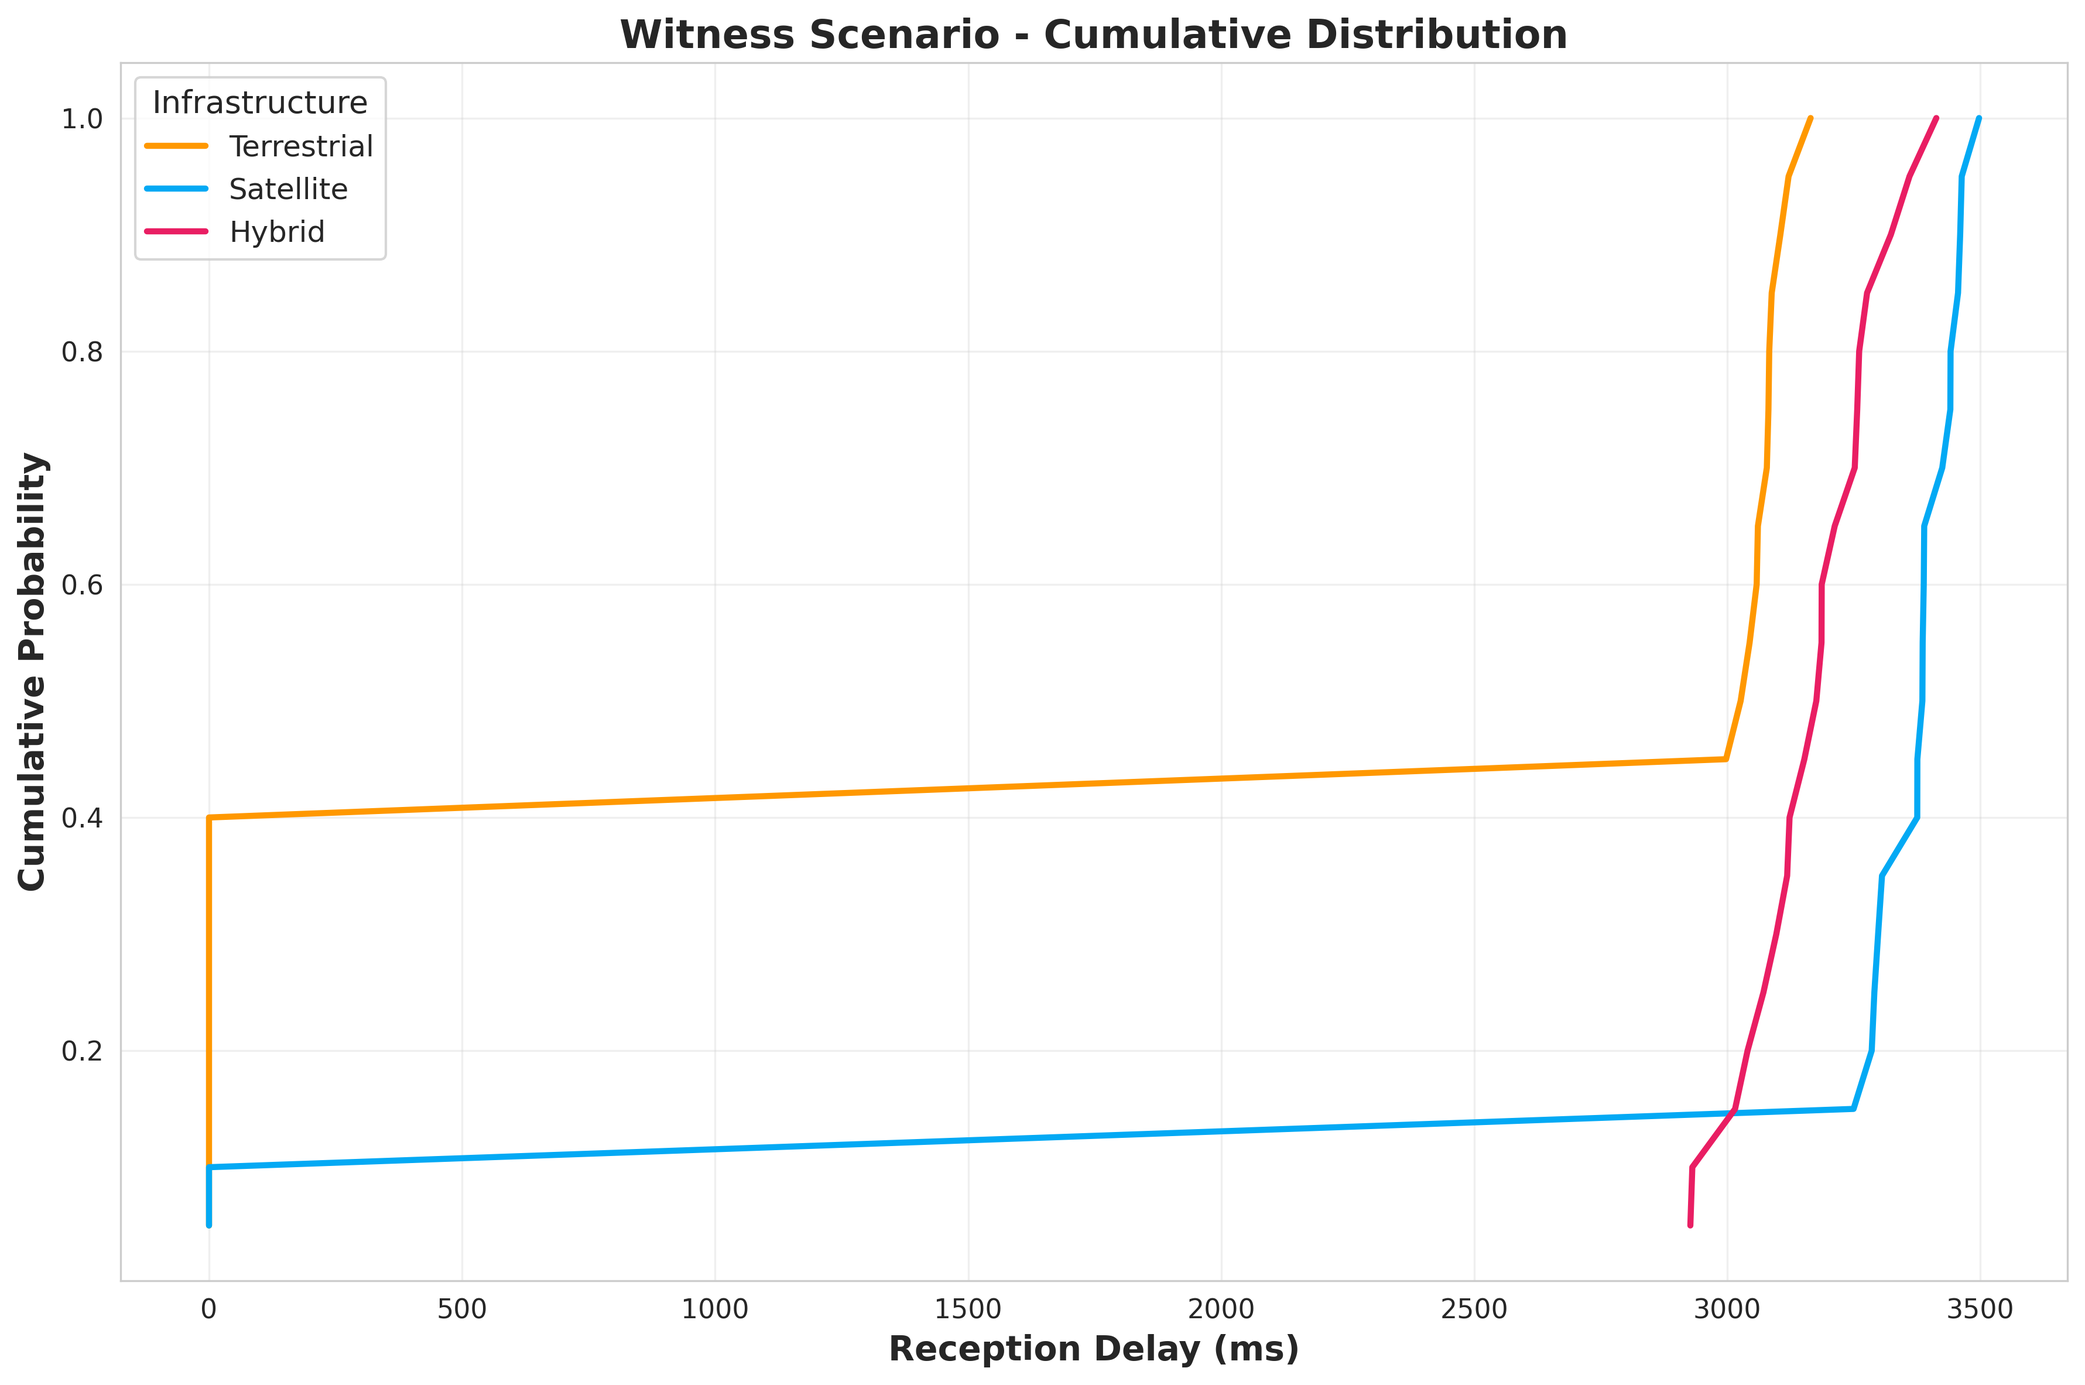
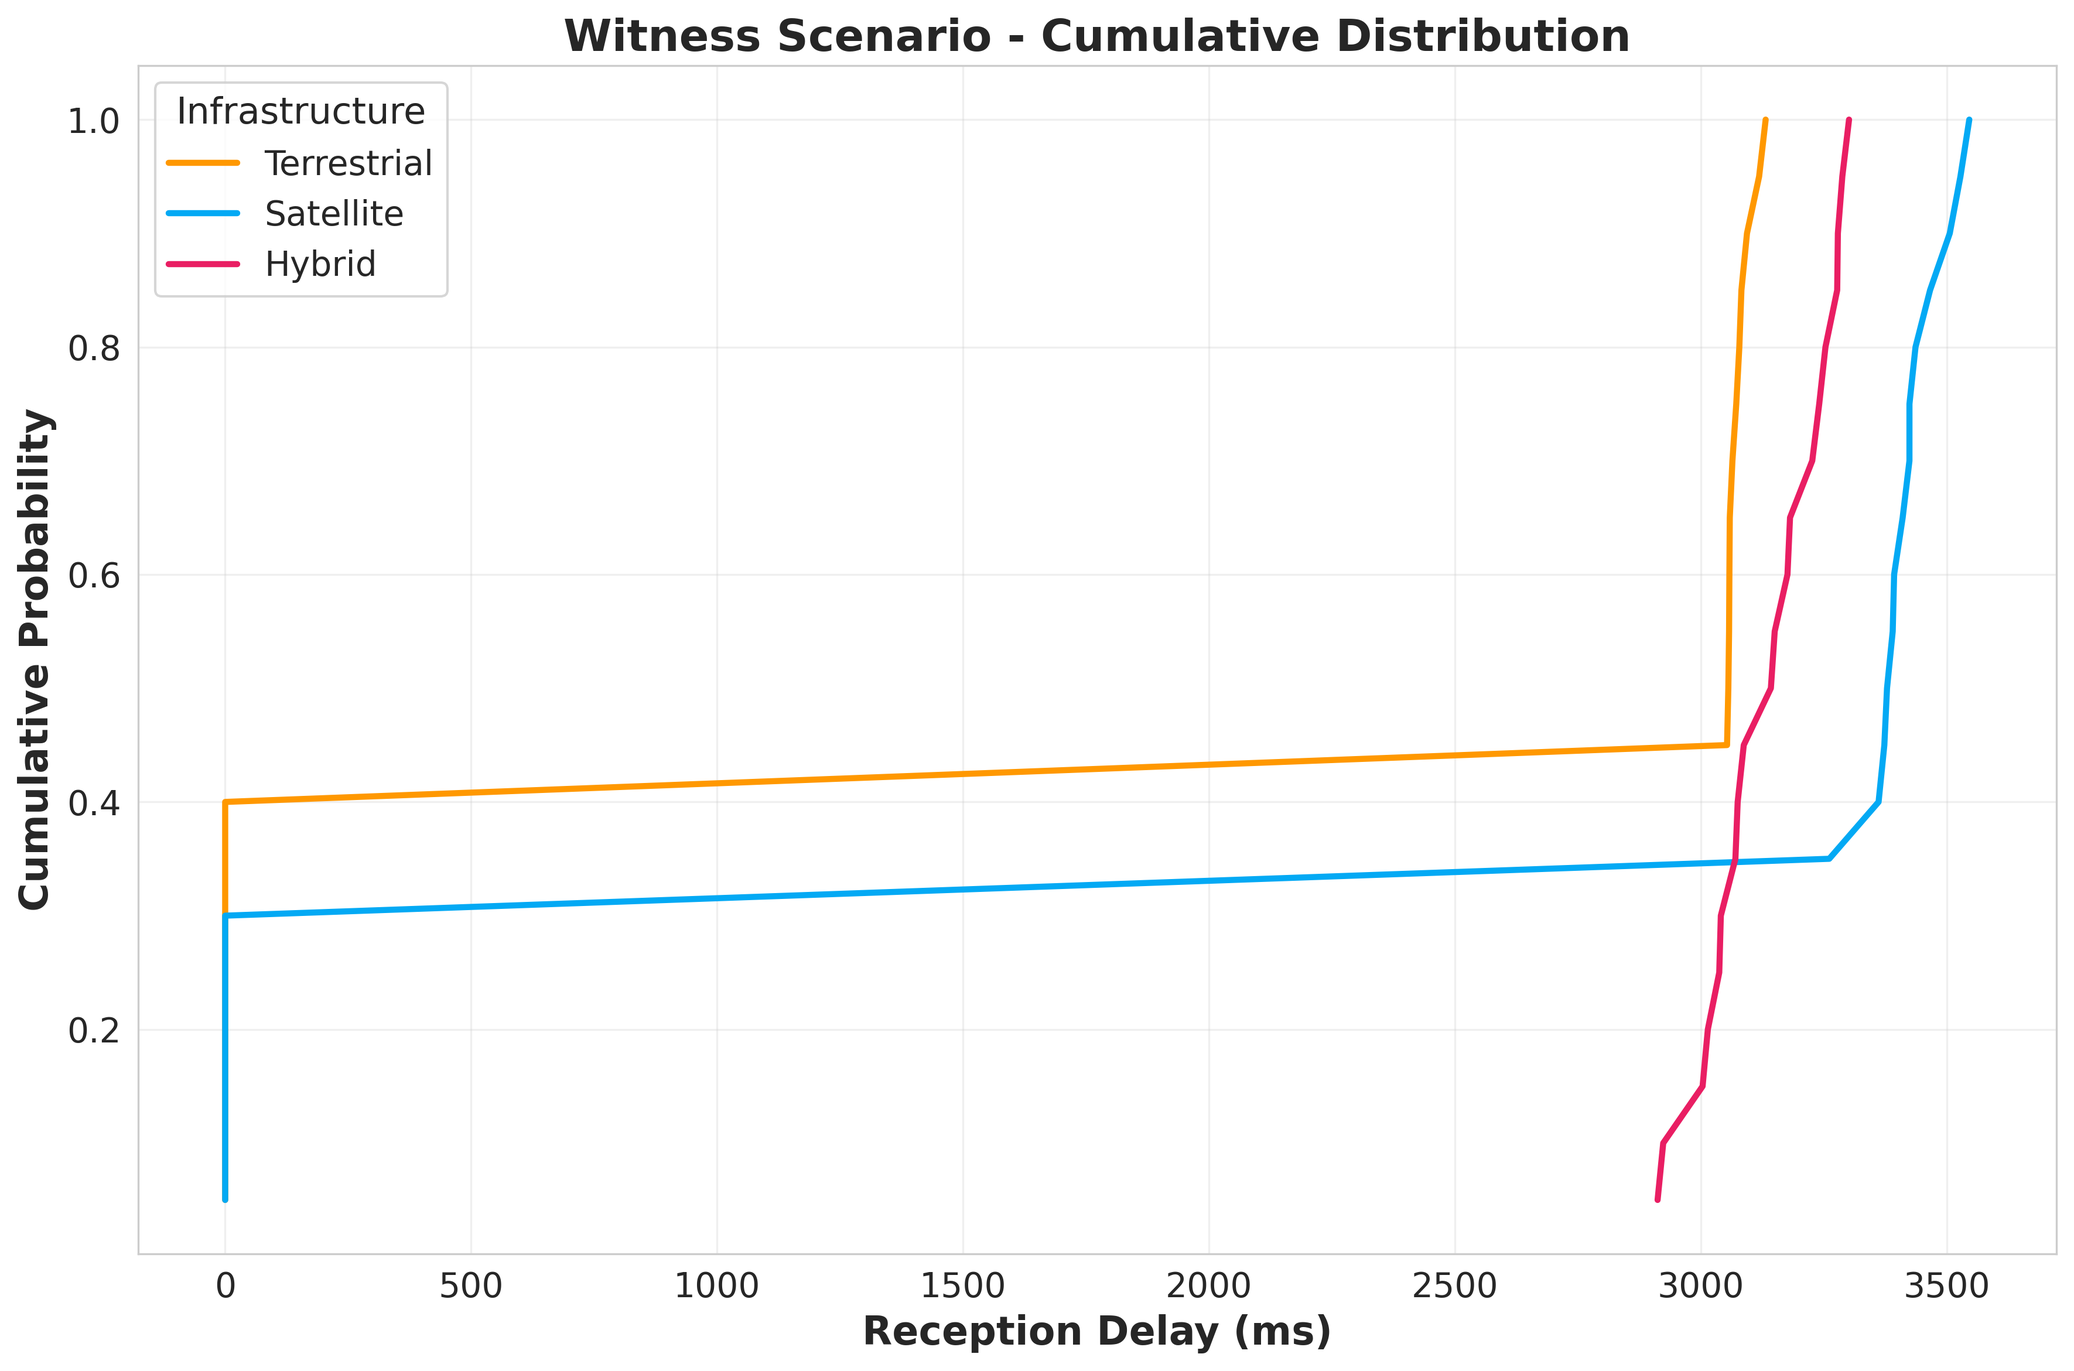
refactor: update README and analysis scripts for improved clarity and consistency; adjust plot aesthetics and summary statistics

diff --git a/scenarios/stelvio/analysis/analyze_results.py b/scenarios/stelvio/analysis/analyze_results.py
@@ -64,7 +64,12 @@ ALL_CONFIGS = {**CONFIGURATIONS["Crashed"], **CONFIGURATIONS["Witness"]}
 # Plotting style
 sns.set_style("whitegrid")
 plt.rcParams['figure.figsize'] = (12, 8)
-plt.rcParams['font.size'] = 11
+plt.rcParams['font.size'] = 14
+plt.rcParams['axes.labelsize'] = 16
+plt.rcParams['axes.titlesize'] = 18
+plt.rcParams['xtick.labelsize'] = 14
+plt.rcParams['ytick.labelsize'] = 14
+plt.rcParams['legend.fontsize'] = 13
 
 
 # =============================================================================
@@ -351,13 +356,14 @@ class PlotGenerator:
             patch.set_facecolor(color)
             patch.set_alpha(0.7)
         
-        ax.set_ylabel('Reception Delay (ms)', fontsize=14, fontweight='bold')
-        ax.set_xlabel('Infrastructure Type', fontsize=14, fontweight='bold')
+        ax.set_ylabel('Reception Delay (ms)', fontsize=16, fontweight='bold')
+        ax.set_xlabel('Infrastructure Type', fontsize=16, fontweight='bold')
         title = f'{scenario_type} Scenario - DENM Reception Delay' if scenario_type else 'DENM Reception Delay Distribution'
-        ax.set_title(title, fontsize=16, fontweight='bold')
+        ax.set_title(title, fontsize=18, fontweight='bold')
         ax.grid(True, alpha=0.3)
         
-        plt.xticks(rotation=0, ha='center')
+        plt.xticks(rotation=0, ha='center', fontsize=14)
+        plt.yticks(fontsize=14)
         plt.tight_layout()
         
         filename = f"latency_boxplot_{scenario_type.lower()}.png" if scenario_type else "latency_boxplot.png"
@@ -388,11 +394,11 @@ class PlotGenerator:
                    color=ALL_CONFIGS[config]['color'],
                    linewidth=2.5)
         
-        ax.set_xlabel('Reception Delay (ms)', fontsize=14, fontweight='bold')
-        ax.set_ylabel('Cumulative Probability', fontsize=14, fontweight='bold')
+        ax.set_xlabel('Reception Delay (ms)', fontsize=16, fontweight='bold')
+        ax.set_ylabel('Cumulative Probability', fontsize=16, fontweight='bold')
         title = f'{scenario_type} Scenario - Cumulative Distribution' if scenario_type else 'Cumulative Distribution'
-        ax.set_title(title, fontsize=16, fontweight='bold')
-        ax.legend(fontsize=12, title='Infrastructure', title_fontsize=13)
+        ax.set_title(title, fontsize=18, fontweight='bold')
+        ax.legend(fontsize=14, title='Infrastructure', title_fontsize=15)
         ax.grid(True, alpha=0.3)
         
         plt.tight_layout()
@@ -437,12 +443,12 @@ class PlotGenerator:
         bars = ax.bar(x, means, yerr=errors, capsize=5, 
                       color=colors, alpha=0.7, edgecolor='black', linewidth=1.5)
         
-        ax.set_ylabel('Cloud Delivery Latency (ms)', fontsize=14, fontweight='bold')
-        ax.set_xlabel('Infrastructure Type', fontsize=14, fontweight='bold')
+        ax.set_ylabel('Cloud Delivery Latency (ms)', fontsize=16, fontweight='bold')
+        ax.set_xlabel('Infrastructure Type', fontsize=16, fontweight='bold')
         title = f'{scenario_type} Scenario - Cloud Delivery Latency' if scenario_type else 'Cloud Delivery Latency'
-        ax.set_title(title, fontsize=16, fontweight='bold')
+        ax.set_title(title, fontsize=18, fontweight='bold')
         ax.set_xticks(x)
-        ax.set_xticklabels(labels, rotation=0, ha='center', fontsize=12)
+        ax.set_xticklabels(labels, rotation=0, ha='center', fontsize=14)
         ax.grid(True, alpha=0.3, axis='y')
         
         # Add value labels on bars
@@ -450,7 +456,7 @@ class PlotGenerator:
             height = bar.get_height()
             ax.text(bar.get_x() + bar.get_width()/2., height,
                    f'{mean:.1f}ms',
-                   ha='center', va='bottom', fontsize=10)
+                   ha='center', va='bottom', fontsize=12, fontweight='bold')
         
         plt.tight_layout()
         
@@ -487,12 +493,12 @@ class PlotGenerator:
         x = np.arange(len(labels))
         bars = ax.bar(x, pdrs, color=colors, alpha=0.7, edgecolor='black', linewidth=1.5)
         
-        ax.set_ylabel('Packet Delivery Ratio (%)', fontsize=14, fontweight='bold')
-        ax.set_xlabel('Infrastructure Type', fontsize=14, fontweight='bold')
+        ax.set_ylabel('Packet Delivery Ratio (%)', fontsize=16, fontweight='bold')
+        ax.set_xlabel('Infrastructure Type', fontsize=16, fontweight='bold')
         title = f'{scenario_type} Scenario - Packet Delivery Ratio' if scenario_type else 'Packet Delivery Ratio'
-        ax.set_title(title, fontsize=16, fontweight='bold')
+        ax.set_title(title, fontsize=18, fontweight='bold')
         ax.set_xticks(x)
-        ax.set_xticklabels(labels, rotation=0, ha='center', fontsize=12)
+        ax.set_xticklabels(labels, rotation=0, ha='center', fontsize=14)
         ax.set_ylim([0, 105])
         ax.grid(True, alpha=0.3, axis='y')
         
@@ -501,7 +507,7 @@ class PlotGenerator:
             height = bar.get_height()
             ax.text(bar.get_x() + bar.get_width()/2., height,
                    f'{pdr:.1f}%',
-                   ha='center', va='bottom', fontsize=10, fontweight='bold')
+                   ha='center', va='bottom', fontsize=12, fontweight='bold')
         
         plt.tight_layout()
         
@@ -538,12 +544,12 @@ class PlotGenerator:
         x = np.arange(len(labels))
         bars = ax.bar(x, coverages, color=colors, alpha=0.7, edgecolor='black', linewidth=1.5)
         
-        ax.set_ylabel('Infrastructure Coverage (%)', fontsize=14, fontweight='bold')
-        ax.set_xlabel('Infrastructure Type', fontsize=14, fontweight='bold')
+        ax.set_ylabel('Infrastructure Coverage (%)', fontsize=16, fontweight='bold')
+        ax.set_xlabel('Infrastructure Type', fontsize=16, fontweight='bold')
         title = f'{scenario_type} Scenario - Infrastructure Coverage' if scenario_type else 'Infrastructure Coverage'
-        ax.set_title(title, fontsize=16, fontweight='bold')
+        ax.set_title(title, fontsize=18, fontweight='bold')
         ax.set_xticks(x)
-        ax.set_xticklabels(labels, rotation=0, ha='center', fontsize=12)
+        ax.set_xticklabels(labels, rotation=0, ha='center', fontsize=14)
         ax.set_ylim([0, 105])
         ax.grid(True, alpha=0.3, axis='y')
         
@@ -552,7 +558,7 @@ class PlotGenerator:
             height = bar.get_height()
             ax.text(bar.get_x() + bar.get_width()/2., height,
                    f'{cov:.1f}%',
-                   ha='center', va='bottom', fontsize=10, fontweight='bold')
+                   ha='center', va='bottom', fontsize=12, fontweight='bold')
         
         plt.tight_layout()
         
@@ -590,11 +596,12 @@ class PlotGenerator:
             ax.hist(delays, bins=50, alpha=0.6, label=infra, 
                    color=infra_colors[infra], edgecolor='black')
         
-        ax.set_xlabel('Reception Delay (ms)', fontsize=12)
-        ax.set_ylabel('Frequency', fontsize=12)
-        ax.set_title('Reception Delay Distribution', fontsize=14, fontweight='bold')
-        ax.legend()
+        ax.set_xlabel('Reception Delay (ms)', fontsize=14)
+        ax.set_ylabel('Frequency', fontsize=14)
+        ax.set_title('Reception Delay Distribution', fontsize=16, fontweight='bold')
+        ax.legend(fontsize=12)
         ax.grid(True, alpha=0.3)
+        ax.tick_params(axis='both', labelsize=12)
         
         # 2. Reception Delay CDF
         ax = axes[0, 1]
@@ -612,11 +619,12 @@ class PlotGenerator:
             ax.plot(sorted_delays, cdf, label=infra, 
                    color=infra_colors[infra], linewidth=2.5)
         
-        ax.set_xlabel('Reception Delay (ms)', fontsize=12)
-        ax.set_ylabel('CDF', fontsize=12)
-        ax.set_title('Cumulative Distribution Function', fontsize=14, fontweight='bold')
-        ax.legend()
+        ax.set_xlabel('Reception Delay (ms)', fontsize=14)
+        ax.set_ylabel('CDF', fontsize=14)
+        ax.set_title('Cumulative Distribution Function', fontsize=16, fontweight='bold')
+        ax.legend(fontsize=12)
         ax.grid(True, alpha=0.3)
+        ax.tick_params(axis='both', labelsize=12)
         
         # 3. Reception Delay Boxplot
         ax = axes[0, 2]
@@ -642,9 +650,10 @@ class PlotGenerator:
                 patch.set_facecolor(color)
                 patch.set_alpha(0.7)
         
-        ax.set_ylabel('Reception Delay (ms)', fontsize=12)
-        ax.set_title('Statistical Summary', fontsize=14, fontweight='bold')
+        ax.set_ylabel('Reception Delay (ms)', fontsize=14)
+        ax.set_title('Statistical Summary', fontsize=16, fontweight='bold')
         ax.grid(True, alpha=0.3)
+        ax.tick_params(axis='both', labelsize=12)
         
         # 4. Cloud Latency Comparison
         ax = axes[1, 0]
@@ -672,16 +681,17 @@ class PlotGenerator:
             bars = ax.bar(x, means, yerr=stds, capsize=5, 
                          color=colors_cloud, alpha=0.7, edgecolor='black')
             ax.set_xticks(x)
-            ax.set_xticklabels(labels_cloud)
-            ax.set_ylabel('Cloud Latency (ms)', fontsize=12)
-            ax.set_title('Cloud Delivery Latency', fontsize=14, fontweight='bold')
+            ax.set_xticklabels(labels_cloud, fontsize=12)
+            ax.set_ylabel('Cloud Latency (ms)', fontsize=14)
+            ax.set_title('Cloud Delivery Latency', fontsize=16, fontweight='bold')
             ax.grid(True, alpha=0.3, axis='y')
+            ax.tick_params(axis='y', labelsize=12)
             
             # Add value labels
             for bar, mean in zip(bars, means):
                 height = bar.get_height()
                 ax.text(bar.get_x() + bar.get_width()/2., height,
-                       f'{mean:.1f}ms', ha='center', va='bottom', fontsize=10)
+                       f'{mean:.1f}ms', ha='center', va='bottom', fontsize=11, fontweight='bold')
         
         # 5. PDR Comparison
         ax = axes[1, 1]
@@ -703,18 +713,19 @@ class PlotGenerator:
             x = np.arange(len(labels_pdr))
             bars = ax.bar(x, pdrs, color=colors_pdr, alpha=0.7, edgecolor='black')
             ax.set_xticks(x)
-            ax.set_xticklabels(labels_pdr)
-            ax.set_ylabel('PDR (%)', fontsize=12)
-            ax.set_title('Packet Delivery Ratio', fontsize=14, fontweight='bold')
+            ax.set_xticklabels(labels_pdr, fontsize=12)
+            ax.set_ylabel('PDR (%)', fontsize=14)
+            ax.set_title('Packet Delivery Ratio', fontsize=16, fontweight='bold')
             ax.set_ylim([0, 105])
             ax.grid(True, alpha=0.3, axis='y')
+            ax.tick_params(axis='y', labelsize=12)
             
             # Add value labels
             for bar, pdr in zip(bars, pdrs):
                 height = bar.get_height()
                 ax.text(bar.get_x() + bar.get_width()/2., height,
                        f'{pdr:.1f}%', ha='center', va='bottom', 
-                       fontsize=10, fontweight='bold')
+                       fontsize=11, fontweight='bold')
         
         # 6. Coverage Comparison
         ax = axes[1, 2]
@@ -736,18 +747,19 @@ class PlotGenerator:
             x = np.arange(len(labels_cov))
             bars = ax.bar(x, coverages, color=colors_cov, alpha=0.7, edgecolor='black')
             ax.set_xticks(x)
-            ax.set_xticklabels(labels_cov)
-            ax.set_ylabel('Coverage (%)', fontsize=12)
-            ax.set_title('Infrastructure Coverage', fontsize=14, fontweight='bold')
+            ax.set_xticklabels(labels_cov, fontsize=12)
+            ax.set_ylabel('Coverage (%)', fontsize=14)
+            ax.set_title('Infrastructure Coverage', fontsize=16, fontweight='bold')
             ax.set_ylim([0, 105])
             ax.grid(True, alpha=0.3, axis='y')
+            ax.tick_params(axis='y', labelsize=12)
             
             # Add value labels
             for bar, cov in zip(bars, coverages):
                 height = bar.get_height()
                 ax.text(bar.get_x() + bar.get_width()/2., height,
                        f'{cov:.1f}%', ha='center', va='bottom', 
-                       fontsize=10, fontweight='bold')
+                       fontsize=11, fontweight='bold')
         
         plt.tight_layout()
         
@@ -814,15 +826,16 @@ class PlotGenerator:
                 if height > 0:
                     ax.text(bar.get_x() + bar.get_width()/2., height,
                            f'{height:.0f}ms',
-                           ha='center', va='bottom', fontsize=10, fontweight='bold')
+                           ha='center', va='bottom', fontsize=11, fontweight='bold')
         
-        ax.set_ylabel('Mean Reception Delay (ms)', fontsize=14, fontweight='bold')
-        ax.set_xlabel('Infrastructure Type', fontsize=14, fontweight='bold')
-        ax.set_title('Reception Delay: Crashed vs Witness', fontsize=15, fontweight='bold')
+        ax.set_ylabel('Mean Reception Delay (ms)', fontsize=16, fontweight='bold')
+        ax.set_xlabel('Infrastructure Type', fontsize=16, fontweight='bold')
+        ax.set_title('Reception Delay: Crashed vs Witness', fontsize=17, fontweight='bold')
         ax.set_xticks(x)
-        ax.set_xticklabels(infra_types, fontsize=12)
-        ax.legend(fontsize=12, loc='upper left')
+        ax.set_xticklabels(infra_types, fontsize=14)
+        ax.legend(fontsize=13, loc='upper left')
         ax.grid(True, alpha=0.3, axis='y')
+        ax.tick_params(axis='y', labelsize=13)
         
         # 2. Cloud Delivery Latency Comparison by Infrastructure Type
         ax = axes[1]
@@ -861,15 +874,16 @@ class PlotGenerator:
                 if height > 0:
                     ax.text(bar.get_x() + bar.get_width()/2., height,
                            f'{height:.0f}ms',
-                           ha='center', va='bottom', fontsize=10, fontweight='bold')
+                           ha='center', va='bottom', fontsize=11, fontweight='bold')
         
-        ax.set_ylabel('Mean Cloud Delivery Latency (ms)', fontsize=14, fontweight='bold')
-        ax.set_xlabel('Infrastructure Type', fontsize=14, fontweight='bold')
-        ax.set_title('Cloud Latency: Crashed vs Witness', fontsize=15, fontweight='bold')
+        ax.set_ylabel('Mean Cloud Delivery Latency (ms)', fontsize=16, fontweight='bold')
+        ax.set_xlabel('Infrastructure Type', fontsize=16, fontweight='bold')
+        ax.set_title('Cloud Latency: Crashed vs Witness', fontsize=17, fontweight='bold')
         ax.set_xticks(x)
-        ax.set_xticklabels(infra_types, fontsize=12)
-        ax.legend(fontsize=12, loc='upper left')
+        ax.set_xticklabels(infra_types, fontsize=14)
+        ax.legend(fontsize=13, loc='upper left')
         ax.grid(True, alpha=0.3, axis='y')
+        ax.tick_params(axis='y', labelsize=13)
         
         plt.tight_layout()
         

diff --git a/scenarios/stelvio/README.md b/scenarios/stelvio/README.md
@@ -176,8 +176,7 @@ make check          # Verifica (34 controlli)
 make build          # Compila scenario
 
 # 2. Esegui Simulazioni
-make run-crashed    # Esegui tutti scenari crashed (3 configs)
-make run-witness    # Esegui tutti scenari witness (3 configs)
+make run-all        # Esegui tutte le 6 configurazioni
 # oppure
 ./quickstart.sh run-all  # Tutte le 6 configurazioni
 
@@ -198,8 +197,6 @@ make clean-all      # Rimuovi tutto (incluso venv)
 | `make help` | Mostra tutti i comandi disponibili |
 | `make check` | Verifica setup e dipendenze (34 test) |
 | `make build` | Compila libreria scenario (libartery_stelvio.so) |
-| `make run-crashed` | Esegui 3 scenari crashed (Terrestrial/Satellite/Hybrid) |
-| `make run-witness` | Esegui 3 scenari witness (Terrestrial/Satellite/Hybrid) |
 | `make run-all` | Esegui tutte le 6 configurazioni |
 | `make analyze` | Genera grafici e statistiche CSV |
 | `make gui` | Avvia GUI Python per controllo batch |
@@ -436,8 +433,8 @@ Attiva **entrambe** le infrastrutture:
 # Imposta ritardo personalizzato
 export STELVIO_WITNESS_DELAY=5.0
 
-# Esegui scenario witness
-make run-witness
+# Esegui scenario witness direttamente con opp_run
+opp_run -u Cmdenv -c Witness_Hybrid omnetpp.ini
 
 # Studio sensibilità
 for delay in 1.0 3.0 5.0 10.0; do
@@ -1694,7 +1691,7 @@ class vanetza::btp::DataRequest;  // No #include
 
 ```bash
 # Witness delay (secondi)
-export STELVIO_WITNESS_DELAY=5.0
+export STELVIO_WITNESS_DELAY=3.0
 
 # OMNeT++ debug
 export OMNETPP_IMAGE_PATH=/workspaces/artery/scenarios/stelvio/images
@@ -1808,7 +1805,7 @@ Richiede: disclosure source code, same license. No warranty.
 ```bibtex
 @misc{stelvio_v2x_6g_2025,
   title={Stelvio V2X Simulation: 6G Hybrid Terrestrial-Satellite Infrastructure Study},
-  author={Your Name},
+  author={Agostino Cesarano},
   year={2025},
   month={October},
   note={OMNeT++ simulation scenario for hybrid V2X communication on Stelvio Pass (SS38)},
@@ -1834,7 +1831,7 @@ Richiede: disclosure source code, same license. No warranty.
 ```bash
 make check          # Verifica completa setup
 make build          # Compila scenario
-make run-crashed    # Test esecuzione
+make run-all        # Test esecuzione di tutte le config
 make analyze        # Analizza risultati
 ```
 
